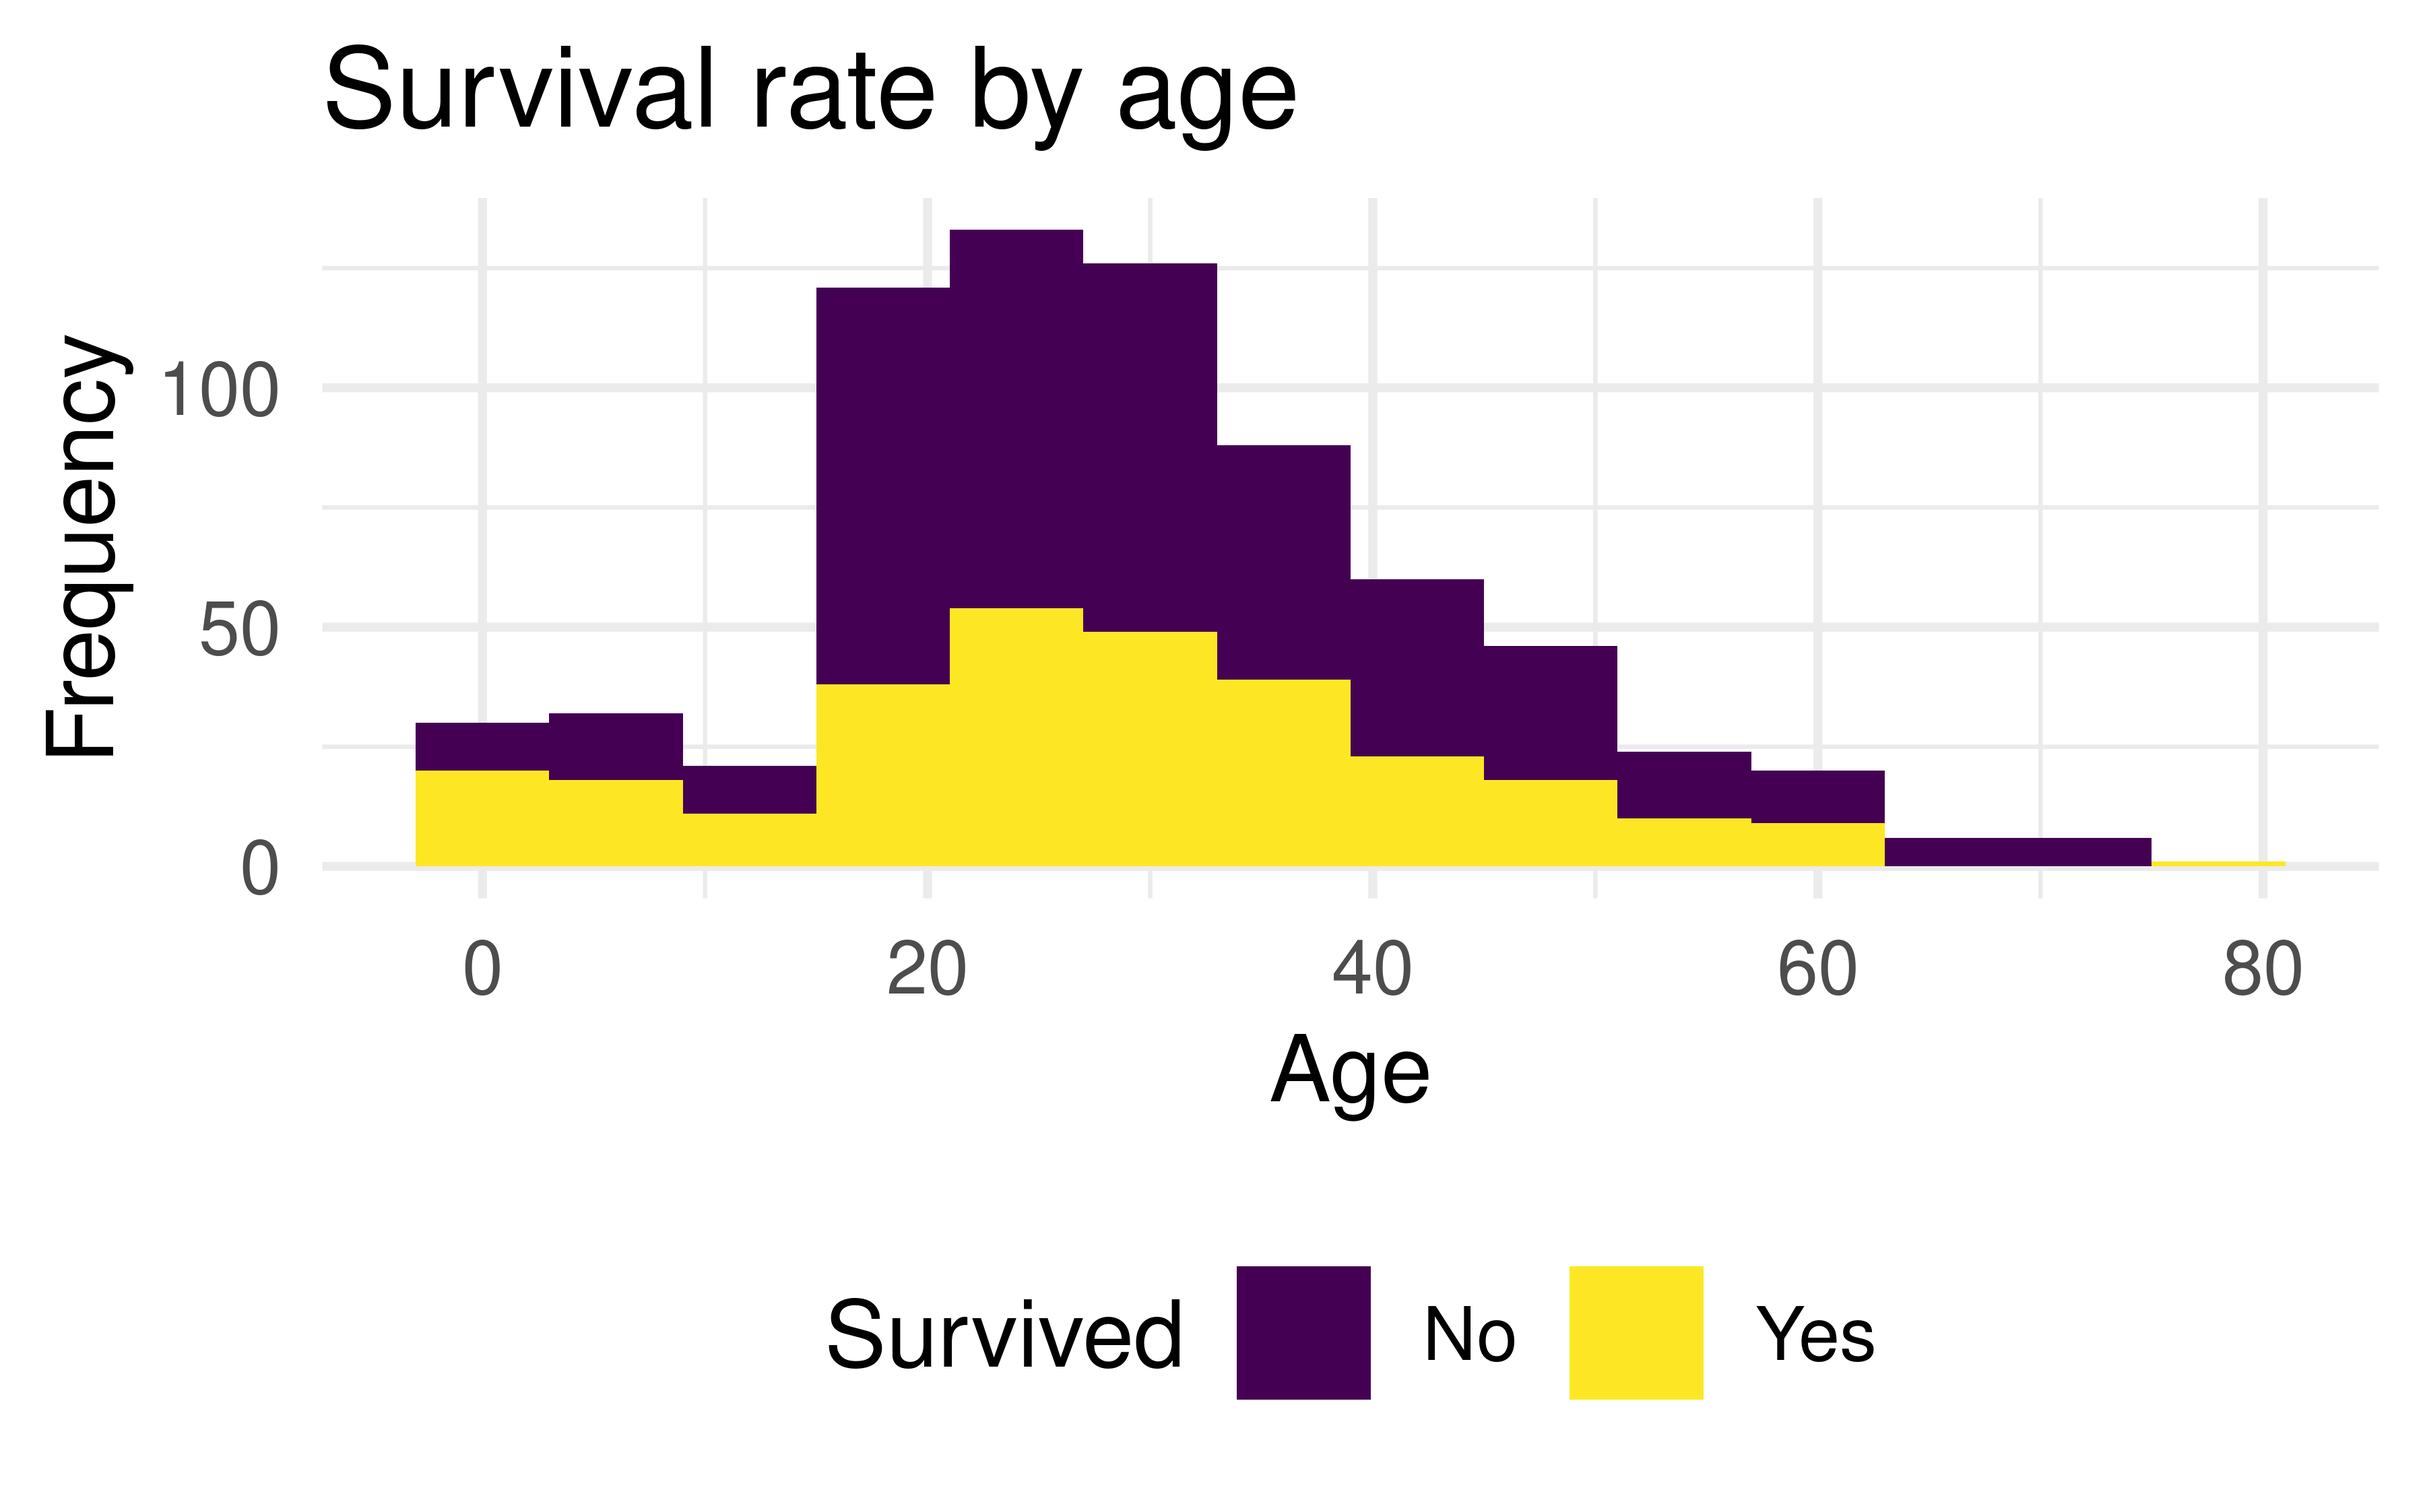
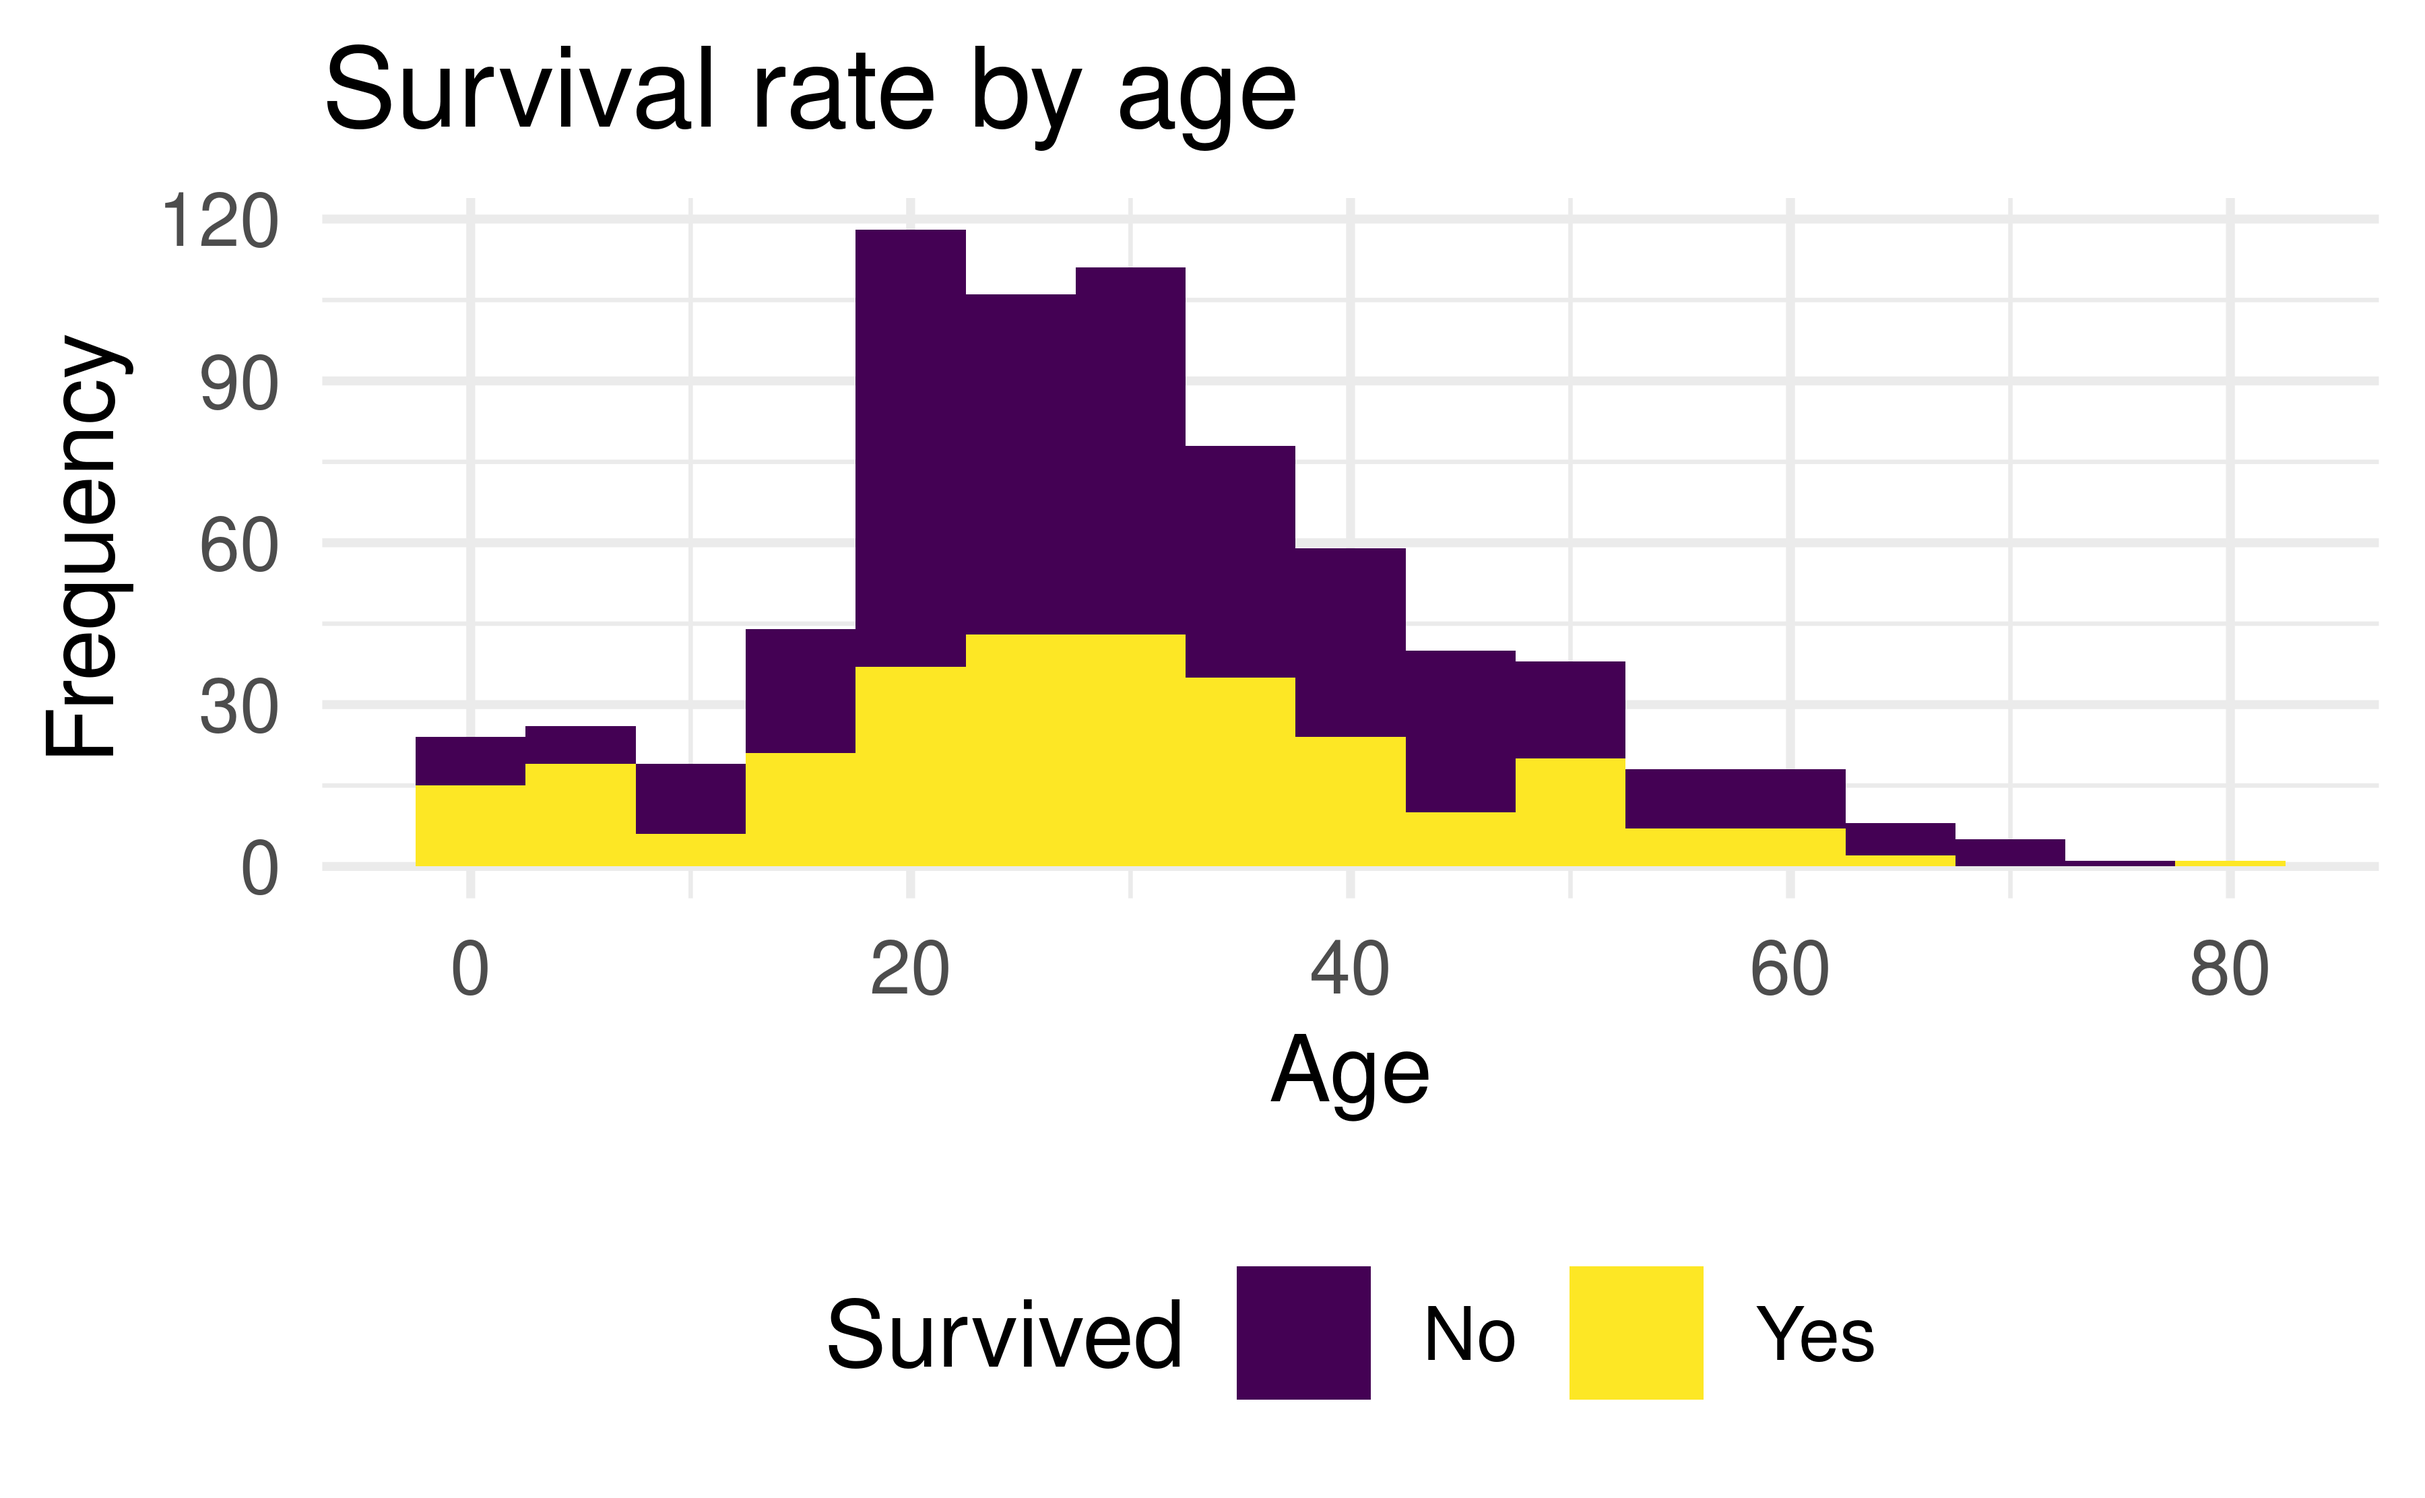
merge

diff --git a/presentation/presentation.html b/presentation/presentation.html
@@ -4,7 +4,7 @@
     <title>Who survived the Titanic?</title>
     <meta charset="utf-8" />
     <meta name="author" content="XEM Team   Chenyu Li, Emma Ghelfi, Maria Stylianou, Xiao Hu" />
-    <meta name="date" content="2021-11-22" />
+    <meta name="date" content="2021-11-26" />
     <script src="libs/header-attrs-2.11/header-attrs.js"></script>
     <link rel="stylesheet" href="xaringan-themer.css" type="text/css" />
   </head>
@@ -16,7 +16,7 @@ class: center, middle, inverse, title-slide
 ## Factors contributing to the survival of passengers in the historic Titanic accident of 1912
 ### XEM Team <br> Chenyu Li, Emma Ghelfi, Maria Stylianou, Xiao Hu
 ### University of Edinburgh
-### 2021-11-22
+### 2021-11-26
 
 ---
 
@@ -118,17 +118,11 @@ class: inverse, middle, center
 The age of a passenger can be considered to be high priority. We take it for granted that people give priority to saving infants and young child when it comes to providing life saving equipment. Beyond that the survival of passengers is highly related to their physical abilities which means that the younger the passenger is the higher possibility is to survive. 
 ---
 # visualization
-.pull-right[
-- Use "Age" as the predictor variable(X) and "Frequency" as the outcome variable(Y) displayed in terms of colors showing survivals or not.
-- Create a a new variable called "Age_Range" which groups the ages by scale of 10 so that we can find the survival rate for each age range and come outwith more concrete conclusions.
-]
 
 .pull-left[
+- The width of the binwidth chosen is 5 
 
-```
-## Warning: Removed 177 rows containing non-finite values (stat_bin).
-```
-
+.pull-right[
 &lt;img src="presentation_files/figure-html/age-survival-1.png" width="100%" /&gt;
 ]
 
